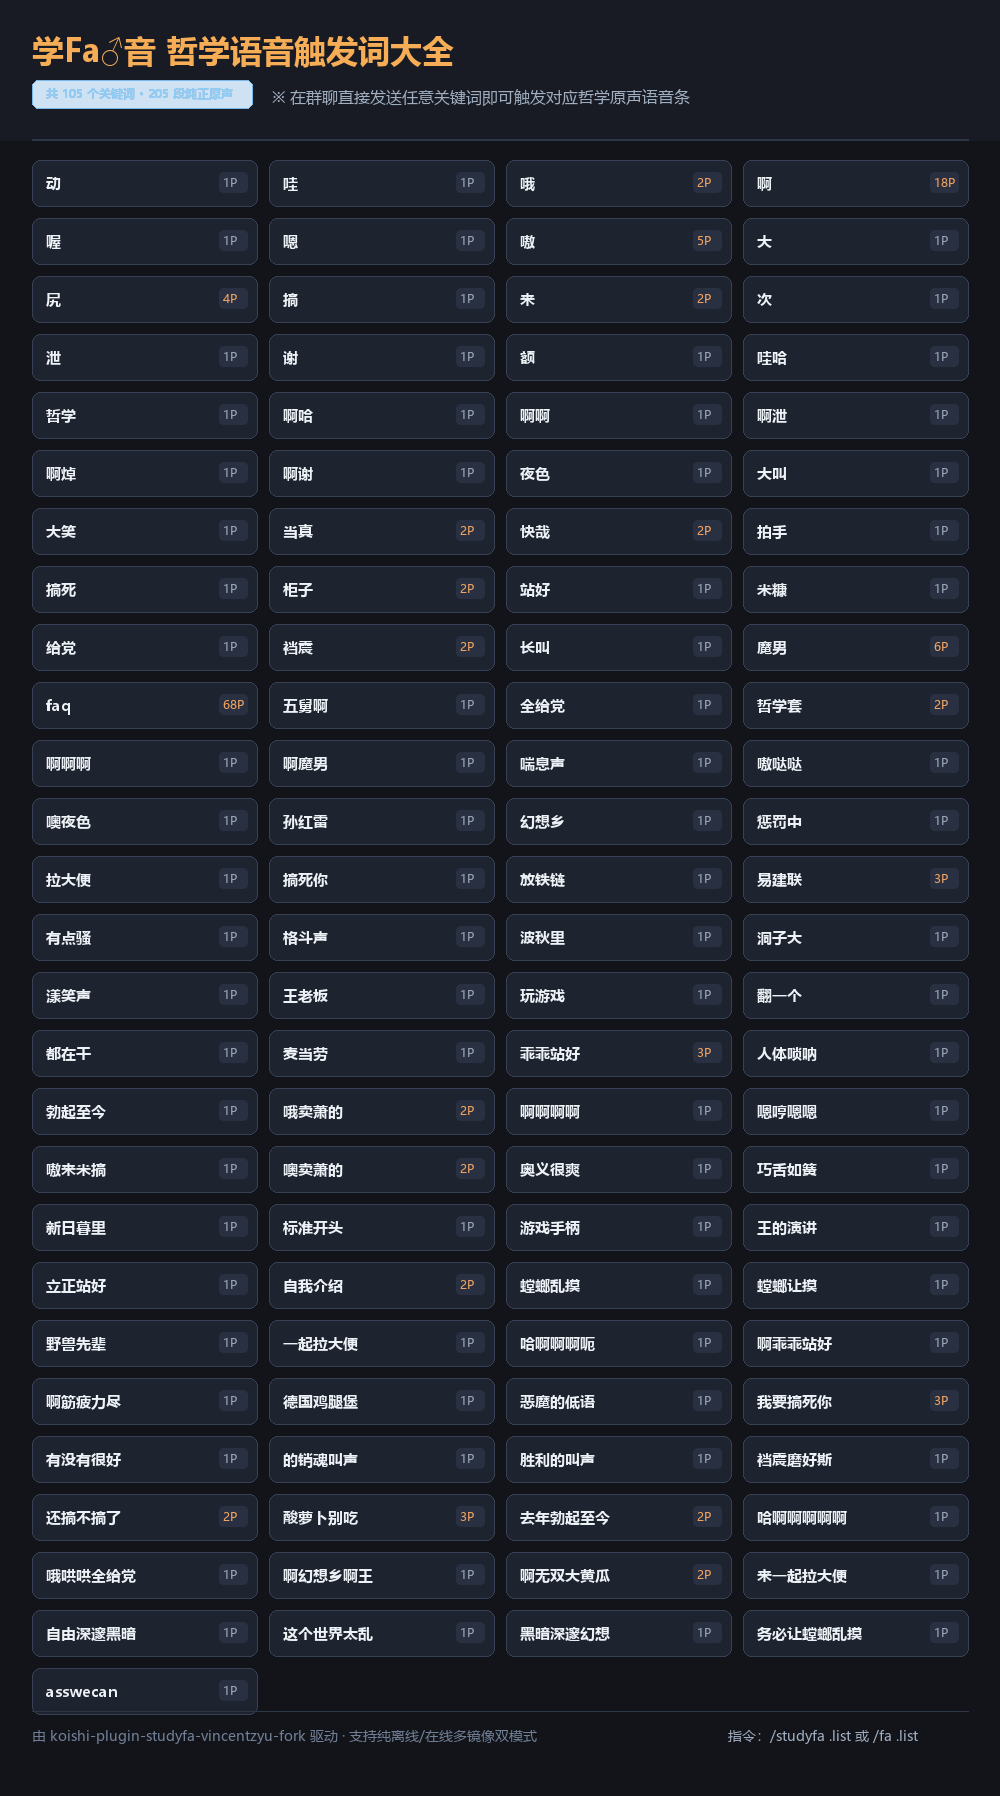
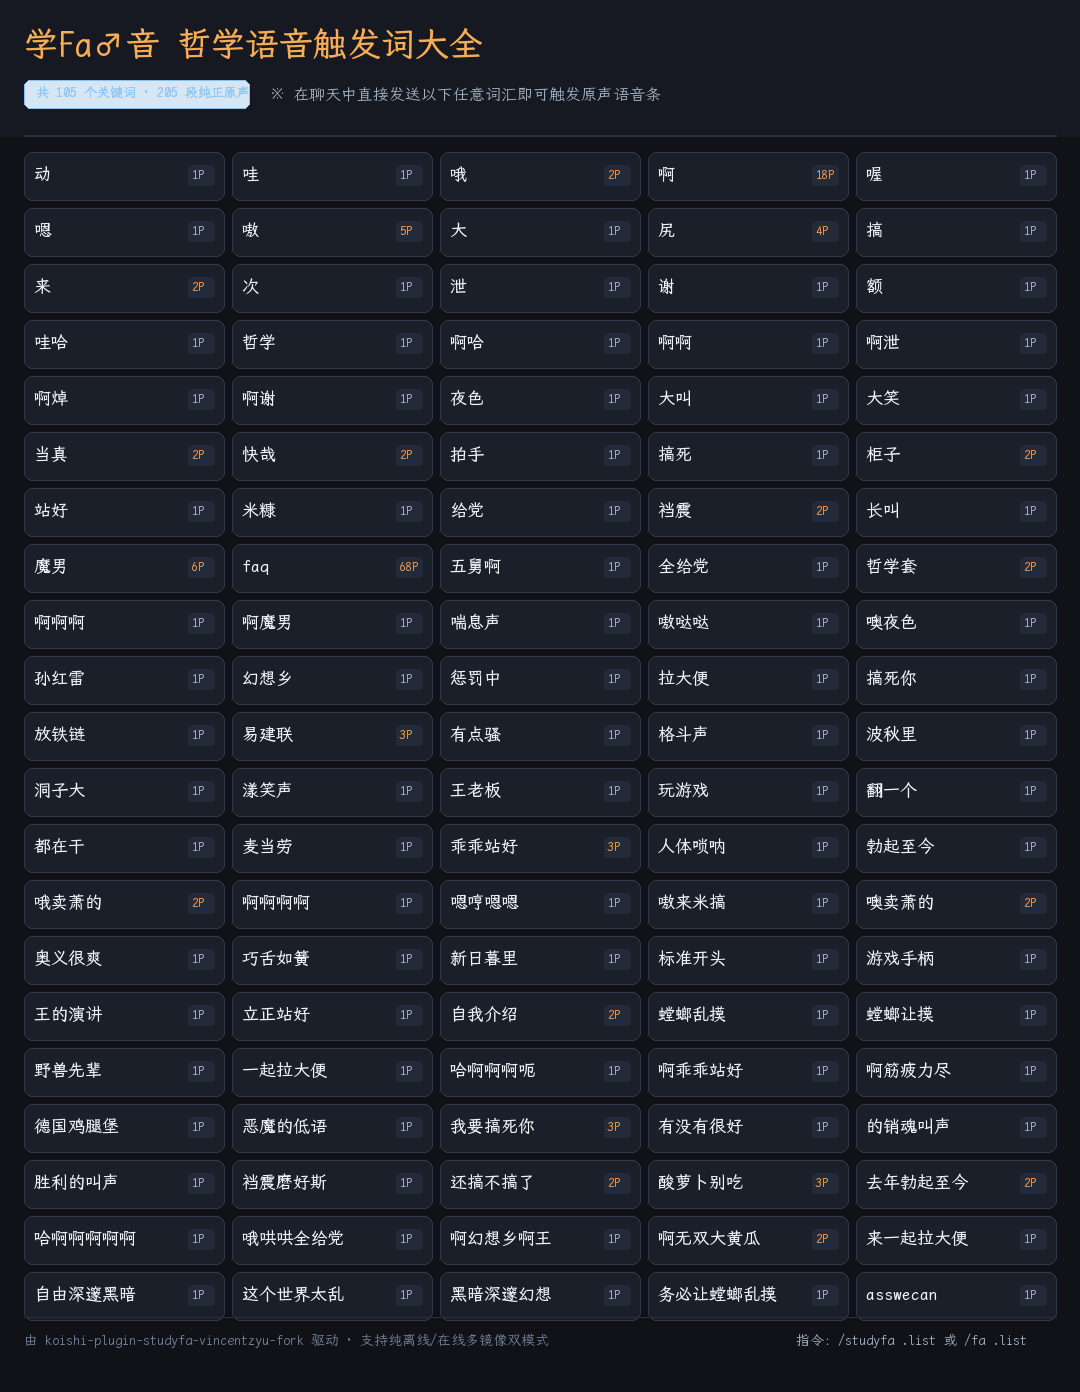
feat: add disabled dataPath config, compact keywords poster, and update fork notice

Changed region(s): [[0.0, 0.0, 0.992, 0.9885], [0.155, 0.8032, 0.186, 0.8341]]

diff --git a/src/config.ts b/src/config.ts
@@ -27,6 +27,7 @@ export interface Config {
   listDisplayMode: 'image' | 'text' // 🖼 触发词列表展示方式（图片 / 文本）
 
   // ===== 📦 资源与离线下载设置 =====
+  dataPath?: string // 📁 本地数据存储目录（只读）
   autoDownload: boolean // 🚀 插件启动时若缺少音频资源包是否自动静默下载
   useDownloadProxy: boolean // 🌐 下载语音包时是否使用 HTTP/SOCKS 代理
   downloadProxyUrl: string // 🔌 下载语音包时使用的代理服务器地址（默认 http://127.0.0.1:7890）
@@ -80,6 +81,10 @@ export const Config: Schema<Config> = Schema.intersect([
 
   // ===== 📦 资源与离线下载设置 =====
   Schema.object({
+    dataPath: Schema.string()
+      .disabled()
+      .default('data/studyfa')
+      .description('📁 本地数据存储目录（基于 Koishi 根目录 ctx.baseDir 解析。当前暂时只读不可修改；若有自定义路径需求欢迎提 Issue/PR 或加群反馈）'),
     autoDownload: Schema.boolean()
       .default(true)
       .description('🚀 插件启动时，若本地缺失离线音频资源是否在后台自动静默下载'),

diff --git a/src/audio-manager.ts b/src/audio-manager.ts
@@ -17,9 +17,10 @@ export class AudioManager {
     mirrors: string[],
     private useProxy: boolean = false,
     private proxyUrl: string = 'http://127.0.0.1:7890',
+    dataPath?: string,
   ) {
     this.logger = ctx.logger('studyfa')
-    this.dataDir = path.resolve(ctx.baseDir, 'data', 'studyfa')
+    this.dataDir = path.resolve(ctx.baseDir, dataPath || 'data/studyfa')
     this.audioDir = path.join(this.dataDir, 'audio')
     fs.mkdirSync(this.audioDir, { recursive: true })
 

diff --git a/src/index.ts b/src/index.ts
@@ -19,6 +19,7 @@ export function apply(ctx: Context, config: Config) {
     config.downloadMirrorUrlList,
     config.useDownloadProxy,
     config.downloadProxyUrl,
+    config.dataPath,
   )
 
   // 1. 启动时后台静默预热下载音频切片包

diff --git a/scripts/render_keywords_image.py b/scripts/render_keywords_image.py
@@ -3,7 +3,8 @@
 """
 render_keywords_image.py
 
-使用 Pillow 渲染学Fa♂音全量 105 个触发词的现代暗黑/金质感图鉴长图
+使用 Pillow 渲染学Fa♂音全量 105 个触发词的现代暗黑紧凑图鉴长图
+优先采用 LXGWWenKaiMono（霞鹜文楷等宽）字体，自适应列宽与大字号排版
 输出文件：docs/images/keywords_overview.png
 """
 
@@ -14,113 +15,142 @@ import sys
 from pathlib import Path
 from PIL import Image, ImageDraw, ImageFont
 
+
 def get_font(size: int, bold: bool = False):
-    candidates = [
+    root = Path(__file__).resolve().parent.parent  # external/studyfa-vincentzyu-fork
+    workspace_root = root.parent.parent            # koishi-dev-8
+
+    # 优先查找本地公共字体库中的霞鹜文楷 (LXGW WenKai Mono)
+    lxgw_candidates = [
+        workspace_root / "data" / "fonts" / ("LXGWWenKaiMono-Medium.ttf" if bold else "LXGWWenKaiMono-Regular.ttf"),
+        workspace_root / "data" / "fonts" / "LXGWWenKaiMono-Regular.ttf",
+        workspace_root / "data" / "assets" / "bili-live-music" / "fonts" / "LXGWWenKaiMono-Regular.ttf",
+        workspace_root / "data" / "assets" / "music-link-vincentzyu-fork" / "LXGWWenKaiMono-Regular.ttf",
+    ]
+
+    for p in lxgw_candidates:
+        if p.exists():
+            try:
+                return ImageFont.truetype(str(p), size)
+            except Exception:
+                pass
+
+    # 系统备用中文字体
+    system_candidates = [
         "C:/Windows/Fonts/msyhbd.ttc" if bold else "C:/Windows/Fonts/msyh.ttc",
         "C:/Windows/Fonts/msyh.ttc",
         "C:/Windows/Fonts/simhei.ttf",
         "/usr/share/fonts/truetype/wqy/wqy-microhei.ttc",
         "/usr/share/fonts/opentype/noto/NotoSansCJK-Regular.ttc",
     ]
-    for path in candidates:
-        if os.path.exists(path):
+    for p in system_candidates:
+        if os.path.exists(p):
             try:
-                return ImageFont.truetype(path, size)
+                return ImageFont.truetype(p, size)
             except Exception:
-                continue
+                pass
+
     return ImageFont.load_default()
+
 
 def main():
     root = Path(__file__).resolve().parent.parent
-    map_file = Path("D:/temp/gemini/studyfa/studyfa_map.json")
-    if not map_file.exists():
-        # 回退寻找
-        map_file = root / "src" / "data" / "keywords.ts"
+    workspace_root = root.parent.parent
 
-    with open("D:/temp/gemini/studyfa/studyfa_map.json", "r", encoding="utf-8") as f:
-        data: dict = json.load(f)
+    # 读取本地关键词字典
+    map_file = workspace_root / "data" / "studyfa" / "studyfa_map.json"
+    if not map_file.exists():
+        map_file = Path("D:/temp/gemini/studyfa/studyfa_map.json")
+    if not map_file.exists():
+        # 从 keywords.ts 解析提取
+        ts_file = root / "src" / "data" / "keywords.ts"
+        lines = ts_file.read_text(encoding="utf-8")
+        json_str = lines.split("FA_KEYWORD_MAP: Record<string, string[]> =")[1].strip().rstrip(";")
+        data = json.loads(json_str)
+    else:
+        with open(map_file, "r", encoding="utf-8") as f:
+            data = json.load(f)
 
     keywords = list(data.keys())
-    # 按长度与拼音/字母简单排序
+    # 按字数和拼音自然排序
     keywords.sort(key=lambda k: (len(k), k))
 
-    # 图片参数
-    img_width = 1000
-    cols = 4
-    padding = 32
-    card_gap = 12
-    card_height = 46
+    # 紧凑化排版参数：改为 5 列更充分利用宽度，大幅减小多余留白
+    img_width = 1080
+    cols = 5
+    padding = 24
+    card_gap = 8
+    card_height = 48
     card_width = (img_width - padding * 2 - (cols - 1) * card_gap) // cols
 
     rows = math.ceil(len(keywords) / cols)
-    header_height = 140
-    footer_height = 90
+    header_height = 136
+    footer_height = 80
     img_height = header_height + rows * (card_height + card_gap) + footer_height
 
-    # 创建背景（深蓝黑高对比暗黑画布）
-    img = Image.new("RGBA", (img_width, img_height), (18, 20, 26, 255))
+    # 高对比度暗黑画布
+    img = Image.new("RGBA", (img_width, img_height), (16, 18, 24, 255))
     draw = ImageDraw.Draw(img)
 
-    # 绘制背景装饰光晕
-    draw.rectangle([(0, 0), (img_width, header_height)], fill=(24, 27, 36, 255))
-    draw.line([(padding, header_height - 1), (img_width - padding, header_height - 1)], fill=(45, 55, 72, 255), width=2)
+    # 顶部背景层
+    draw.rectangle([(0, 0), (img_width, header_height)], fill=(22, 25, 34, 255))
+    draw.line([(padding, header_height - 1), (img_width - padding, header_height - 1)], fill=(40, 48, 64, 255), width=2)
 
-    # 字体
-    title_font = get_font(32, bold=True)
+    # 加载霞鹜文楷字体，字号更大更饱满
+    title_font = get_font(34, bold=True)
     sub_font = get_font(16)
-    badge_font = get_font(12, bold=True)
-    kw_font = get_font(15, bold=True)
-    count_font = get_font(12)
+    badge_font = get_font(13, bold=True)
+    kw_font = get_font(17, bold=True)       # 从 15 放大到 17
+    count_font = get_font(12, bold=True)
     footer_font = get_font(14)
 
-    # 绘制顶部 Header
-    # 标题
+    # 顶部标题栏
     title_text = "学Fa♂音 哲学语音触发词大全"
-    draw.text((padding, 28), title_text, font=title_font, fill=(246, 173, 85, 255))
+    draw.text((padding, 24), title_text, font=title_font, fill=(246, 173, 85, 255))
 
-    # 标签徽章
     badge_text = f"共 {len(keywords)} 个关键词 · 205 段纯正原声"
-    draw.rounded_rectangle([(padding, 80), (padding + 220, 108)], radius=6, fill=(49, 130, 206, 60), outline=(66, 153, 225, 180), width=1)
-    draw.text((padding + 14, 85), badge_text, font=badge_font, fill=(144, 205, 244, 255))
+    draw.rounded_rectangle([(padding, 80), (padding + 225, 108)], radius=6, fill=(49, 130, 206, 50), outline=(66, 153, 225, 160), width=1)
+    draw.text((padding + 12, 84), badge_text, font=badge_font, fill=(144, 205, 244, 255))
 
-    tip_text = "※ 在群聊直接发送任意关键词即可触发对应哲学原声语音条"
-    draw.text((padding + 240, 86), tip_text, font=sub_font, fill=(160, 174, 192, 255))
+    tip_text = "※ 在聊天中直接发送以下任意词汇即可触发原声语音条"
+    draw.text((padding + 245, 85), tip_text, font=sub_font, fill=(160, 174, 192, 255))
 
-    # 绘制关键词网格
+    # 绘制 5 列紧凑卡片
     for idx, kw in enumerate(keywords):
         r = idx // cols
         c = idx % cols
         x = padding + c * (card_width + card_gap)
-        y = header_height + 20 + r * (card_height + card_gap)
+        y = header_height + 16 + r * (card_height + card_gap)
 
         audio_count = len(data[kw])
 
-        # 卡片背景（圆角胶囊）
-        draw.rounded_rectangle([(x, y), (x + card_width, y + card_height)], radius=8, fill=(30, 35, 48, 255), outline=(55, 65, 85, 255), width=1)
+        # 卡片背景
+        draw.rounded_rectangle([(x, y), (x + card_width, y + card_height)], radius=8, fill=(26, 31, 42, 255), outline=(48, 56, 74, 255), width=1)
 
-        # 关键词文本
-        draw.text((x + 14, y + 13), kw, font=kw_font, fill=(237, 242, 247, 255))
+        # 关键词字词（字号更大）
+        draw.text((x + 10, y + 12), kw, font=kw_font, fill=(240, 244, 248, 255))
 
-        # 右侧语音切片数量小徽章
+        # 右侧分片数小标
         count_str = f"{audio_count}P" if audio_count > 1 else "1P"
-        cx = x + card_width - 34
-        cy = y + 14
-        badge_color = (237, 137, 54, 200) if audio_count > 1 else (113, 128, 150, 180)
-        draw.rounded_rectangle([(cx - 4, cy - 2), (cx + 24, cy + 18)], radius=4, fill=(40, 48, 65, 255))
-        draw.text((cx, cy), count_str, font=count_font, fill=badge_color)
+        cx = x + card_width - 32
+        cy = y + 15
+        badge_fill = (237, 137, 54, 220) if audio_count > 1 else (113, 128, 150, 160)
+        draw.rounded_rectangle([(cx - 4, cy - 2), (cx + 22, cy + 18)], radius=4, fill=(35, 42, 58, 255))
+        draw.text((cx, cy), count_str, font=count_font, fill=badge_fill)
 
-    # 绘制底部 Footer
+    # 底部 Footer
     fy = img_height - footer_height + 20
-    draw.line([(padding, fy - 15), (img_width - padding, fy - 15)], fill=(45, 55, 72, 255), width=1)
+    draw.line([(padding, fy - 15), (img_width - padding, fy - 15)], fill=(40, 48, 64, 255), width=1)
     footer_text = "由 koishi-plugin-studyfa-vincentzyu-fork 驱动 · 支持纯离线/在线多镜像双模式"
     draw.text((padding, fy), footer_text, font=footer_font, fill=(113, 128, 150, 255))
     cmd_text = "指令：/studyfa .list 或 /fa .list"
-    draw.text((img_width - padding - 240, fy), cmd_text, font=footer_font, fill=(160, 174, 192, 255))
+    draw.text((img_width - padding - 260, fy), cmd_text, font=footer_font, fill=(160, 174, 192, 255))
 
     out_file = root / "docs" / "images" / "keywords_overview.png"
     out_file.parent.mkdir(parents=True, exist_ok=True)
     img.save(str(out_file), "PNG", optimize=True)
-    print("✅ 触发词大图渲染完成:", out_file, f"({out_file.stat().st_size / 1024:.1f} KB)")
+    print("✅ 紧凑版大字号触发词长图渲染完成:", out_file, f"({out_file.stat().st_size / 1024:.1f} KB)")
+
 
 if __name__ == "__main__":
     main()

diff --git a/readme.md b/readme.md
@@ -15,7 +15,10 @@
 
 **📻 学Fa♂音 哲学语音互动与触发词图鉴插件（VincentZyu Fork） ✨**。基于原版 `koishi-plugin-smmcat-studyfa` 进行纯 TypeScript 重构，并彻底解决原插件依赖单一远程私人服务器失效的顽疾，现已支持全量 205 段音频离线本地化与高可用镜像分发！
 
-> 🙏 **上游致谢**：本项目基于社区原作者 [@smmcat](https://github.com/smmcat) 开发的 `koishi-plugin-smmcat-studyfa` 进行现代化架构重构与离线化升级，感谢原作者提供的灵感与整理的经典音频！
+> ❓ **为什么新开 Fork 独立发布？**
+> 由于目前在 GitHub 与网络上完全搜不到上游原插件的开源代码仓库（上游作者创建了空仓库但未公开源码），想提交 PR 或反馈优化均无门可入；加之原版音频强依赖单一私人轻量服务器随时可能关机失效，为了保障广大群友与用户的长期可用性，并彻底实现**全量离线化、多源镜像容错与触发词可视化长图**，特此开设独立 GitHub 仓库重构维护并发布。
+
+> 🙏 **上游致谢**：本项目基于社区原作者 [@smmcat](https://github.com/smmcat) 开发的 `koishi-plugin-smmcat-studyfa` 进行现代化架构重构与离线化升级，感谢原作者整理的经典音频！
 
 ## 📸 触发词图鉴效果预览
 
@@ -75,6 +78,7 @@ python3 scripts/download_pack.py --proxy http://127.0.0.1:7890 --force
 | `commandAliases` | `string[]` | `fa`、`学fa音`、`哲学` 等 | 主指令别名列表 |
 | `listCommandName` | `string` | `.list` | 触发词列表子指令名 |
 | `listDisplayMode` | `'image' \| 'text'` | `image` | 触发词列表输出模式（图片 / 纯文本） |
+| `dataPath` | `string` | `data/studyfa` | 本地数据存储目录（基于 `ctx.baseDir`，只读锁定） |
 | `autoDownload` | `boolean` | `true` | 启动时是否自动静默下载离线音频资源包 |
 | `useDownloadProxy` | `boolean` | `false` | 下载音频包时是否使用代理 |
 | `downloadProxyUrl` | `string` | `http://127.0.0.1:7890` | 下载使用的代理服务器地址 |
